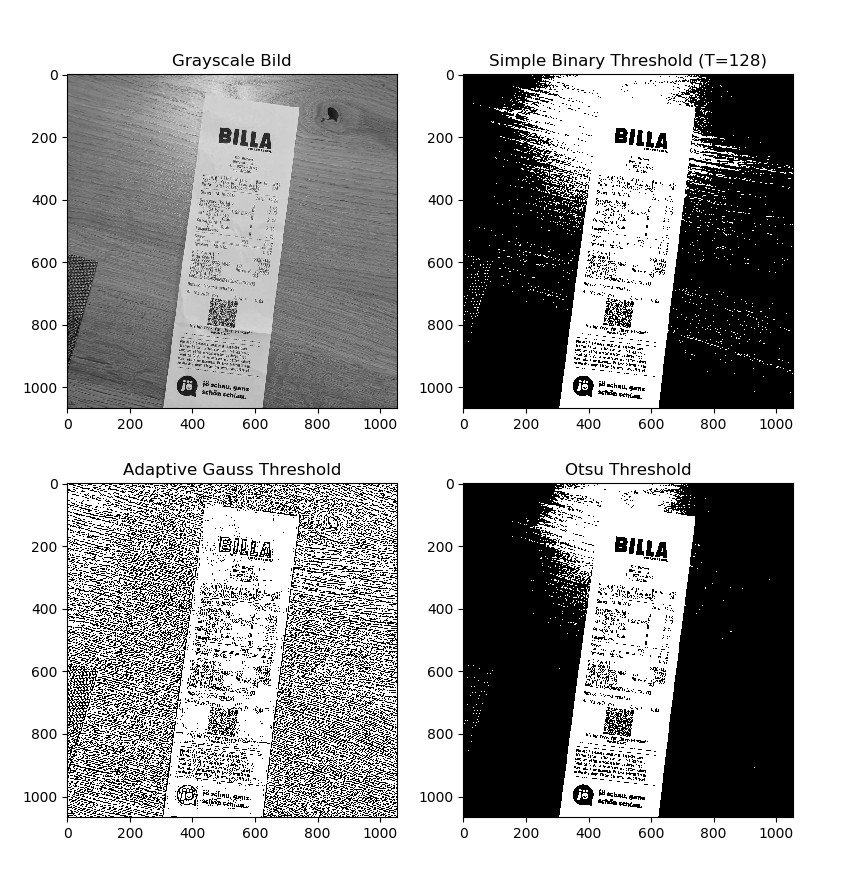
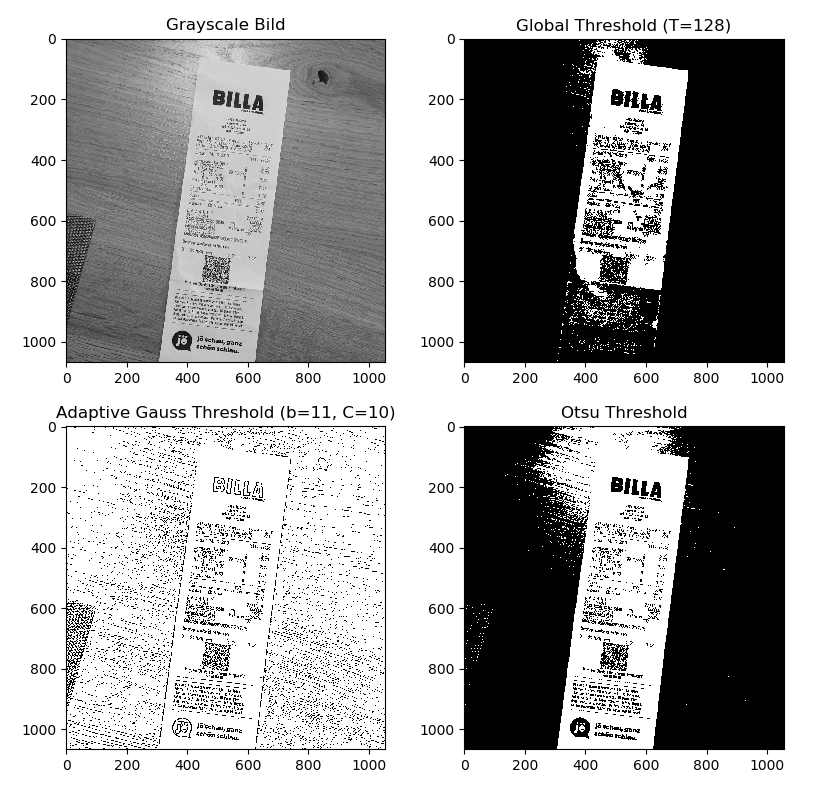
added tex

Changed region(s): [[0.031, 0.0, 0.9607, 0.9673], [0.5888, 0.272, 0.6508, 0.3023]]

diff --git a/markdown/camerascanner_coj.md b/markdown/camerascanner_coj.md
@@ -83,17 +83,13 @@ Hier werden mal die wichtigsten Algorithmen aufgelistet, als auch ihre Lösung f
 Um die Kanten der Rechnungen zu erkennen, kann man sich den Kontrast zum Hintergrund zu Nutze machen. Threshold Algorithmen
 analysieren die Helligkeit der Pixel und stufen es in Weiß (1) oder Schwarz (0) ein.
 
-Es existieren drei Methoden des Thresholdings
+Thresholding Methoden können in drei folgende Gruppen unterteilt werden.
 
-### Simple Thresholding
+### Global Thresholding
 Hier wird ein bestimmter Grauwert als Grenze
 genommen und es wird geprüft, ob dieser überschritten wird.
 
-#### Standard Binary Thresholding
-\hfill
-Die hier einfachste genannte Methode. 
 Folgende Funktion beschreibt den Algorithmus:
-
 
 $$  
 f(G) =   
@@ -110,10 +106,21 @@ T & ausgesuchter Threshold Wert ($ 0 \le T \le 255 $)
 \end{tabular}
 \end{center}
 
-### Adaptive Thresholding
-Bei dieser Methode wird 
+### Local Adaptive Thresholding
+Es kann oft dazu kommen, dass eine Rechnung an einigen Stellen mehr beleuchtet ist als andere Stellen siehe Vergleich zwischen Simple Binary Thresholding und Adaptive Gauss \abb{Thresholding Vergleich}. Aus diesem Grund ist es unmöglich einen globalen Wert zu nehmen, da der Hintergrund unterschiedlich hell ist.
+
+Der Trick ist es, verschiedene Thresholds für bestimmte Bereiche des Bildes zu nehmen. Innerhalb dieses Bereiches (z.B. 11x11 Pixel) kann der normale oder gewichtete Mittelwert als Threshold genommen werden. Wobei die Gewichte für die Pixelwerte dann ein Gaussian Kernel ist. \cite{GaussianKernel}
+
+Dies bringt den Vorteil mit sich, dass Pixel welche weiter entfernt sind vom derzeitigem Pixel weniger gewichtet werden. Aus diesem Grund schweift der Integral Bild Algorithmus vom orginalem ab, da hier die Summen anderes berechnet werden müssen.
+
+Um die Pixelsumme effizient zu berechnen, wird ein Integral Bild erstellt. \cite{IntegralImages}. Damit wird ein Lookup Table erstellt, in welchem wir mit folgender Formel
+
+$$
+ 
+$$
 
 ### Otsu's Methode
+
 
 ### Der Vergleich
 Um die Thresholding Algorithmen zu vergleichen, wurde dieser folgende Code Snippet erstellt.
